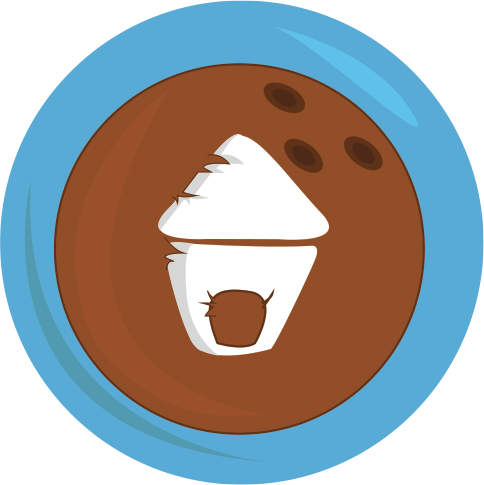
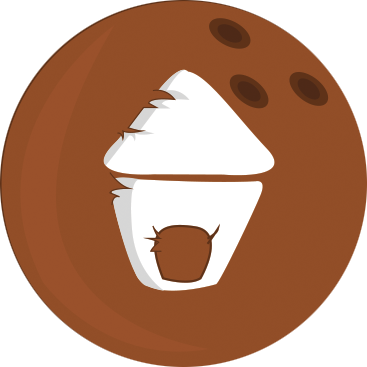
Change pause assets

diff --git a/iOS/BaoMonkey/PauseScene.m b/iOS/BaoMonkey/PauseScene.m
@@ -23,10 +23,25 @@
         panel.position = CGPointMake(SCREEN_WIDTH / 2, SCREEN_HEIGHT - (panel.size.height / 2));
         [self addChild:panel];
         
-        SKSpriteNode *resumeNode = [SKSpriteNode spriteNodeWithTexture:[SKTexture textureWithImageNamed:@"button-play"] size:CGSizeMake(66, 66)];
-        resumeNode.position = CGPointMake(103, 380);
+        resumeNode = [SKSpriteNode spriteNodeWithTexture:[SKTexture textureWithImageNamed:@"button-play"] size:CGSizeMake(52, 52)];
+        resumeNode.position = CGPointMake(102, 380);
         resumeNode.name = RESUME_NODE_NAME;
         [self addChild:resumeNode];
+        
+        replayNode = [SKSpriteNode spriteNodeWithTexture:[SKTexture textureWithImageNamed:@"button-replay"] size:CGSizeMake(52, 52)];
+        replayNode.position = CGPointMake(224, 380);
+        replayNode.name = RETRY_NODE_NAME;
+        [self addChild:replayNode];
+        
+        homeNode = [SKSpriteNode spriteNodeWithTexture:[SKTexture textureWithImageNamed:@"button-home"] size:CGSizeMake(52, 52)];
+        homeNode.position = CGPointMake(102, 270);
+        homeNode.name = HOME_NODE_NAME;
+        [self addChild:homeNode];
+        
+        settingsNode = [SKSpriteNode spriteNodeWithTexture:[SKTexture textureWithImageNamed:@"button-settings"] size:CGSizeMake(52, 52)];
+        settingsNode.position = CGPointMake(224, 270);
+        settingsNode.name = SETTINGS_NODE_NAME;
+        [self addChild:settingsNode];
     }
     return self;
 }
@@ -38,8 +53,32 @@
     SKNode *node = [self nodeAtPoint:location];
     
     if ([node.name isEqualToString:RESUME_NODE_NAME]) {
-        
+        [resumeNode setTexture:[SKTexture textureWithImageNamed:@"button-play-selected"]];
+        [resumeNode setSize:CGSizeMake(66, 66)];
     }
+    else if ([node.name isEqualToString:RETRY_NODE_NAME]) {
+        [replayNode setTexture:[SKTexture textureWithImageNamed:@"button-replay-selected"]];
+        [replayNode setSize:CGSizeMake(66, 66)];
+    }
+    else if ([node.name isEqualToString:HOME_NODE_NAME]) {
+        [homeNode setTexture:[SKTexture textureWithImageNamed:@"button-home-selected"]];
+        [homeNode setSize:CGSizeMake(66, 66)];
+    }
+    else if ([node.name isEqualToString:SETTINGS_NODE_NAME]) {
+        [settingsNode setTexture:[SKTexture textureWithImageNamed:@"button-settings-selected"]];
+        [settingsNode setSize:CGSizeMake(66, 66)];
+    }
+}
+
+-(void)touchesMoved:(NSSet *)touches withEvent:(UIEvent *)event {
+    [resumeNode setTexture:[SKTexture textureWithImageNamed:@"button-play"]];
+    [resumeNode setSize:CGSizeMake(52, 52)];
+    [replayNode setTexture:[SKTexture textureWithImageNamed:@"button-replay"]];
+    [replayNode setSize:CGSizeMake(52, 52)];
+    [homeNode setTexture:[SKTexture textureWithImageNamed:@"button-home"]];
+    [homeNode setSize:CGSizeMake(52, 52)];
+    [settingsNode setTexture:[SKTexture textureWithImageNamed:@"button-settings"]];
+    [settingsNode setSize:CGSizeMake(52, 52)];
 }
 
 - (void)touchesEnded:(NSSet *)touches withEvent:(UIEvent *)event {
@@ -51,6 +90,23 @@
         SKTransition *resumeTransition = [SKTransition pushWithDirection:SKTransitionDirectionLeft duration:0.5];
         [self.view presentScene:fromScene transition:resumeTransition];
         [(MyScene*)fromScene resumeGame];
+        [resumeNode setTexture:[SKTexture textureWithImageNamed:@"button-play"]];
+        [resumeNode setSize:CGSizeMake(52, 52)];
+    }
+    else if ([node.name isEqualToString:RETRY_NODE_NAME]) {
+        [[NSNotificationCenter defaultCenter] postNotificationName:NOTIFICATION_RETRY_GAME object:nil];
+        [replayNode setTexture:[SKTexture textureWithImageNamed:@"button-replay"]];
+        [replayNode setSize:CGSizeMake(52, 52)];
+    }
+    else if ([node.name isEqualToString:HOME_NODE_NAME]) {
+        [[NSNotificationCenter defaultCenter] postNotificationName:NOTIFICATION_GO_TO_HOME object:nil];
+        [homeNode setTexture:[SKTexture textureWithImageNamed:@"button-home"]];
+        [homeNode setSize:CGSizeMake(52, 52)];
+    }
+    else if ([node.name isEqualToString:SETTINGS_NODE_NAME]) {
+        [[NSNotificationCenter defaultCenter] postNotificationName:NOTIFICATION_GO_TO_SETTINGS object:nil];
+        [settingsNode setTexture:[SKTexture textureWithImageNamed:@"button-settings"]];
+        [settingsNode setSize:CGSizeMake(52, 52)];
     }
 }
 

diff --git a/iOS/BaoMonkey/PauseScene.h b/iOS/BaoMonkey/PauseScene.h
@@ -10,6 +10,10 @@
 
 @interface PauseScene : SKScene {
     SKSpriteNode *panel;
+    SKSpriteNode *resumeNode;
+    SKSpriteNode *replayNode;
+    SKSpriteNode *homeNode;
+    SKSpriteNode *settingsNode;
     SKScene *fromScene;
 }
 
